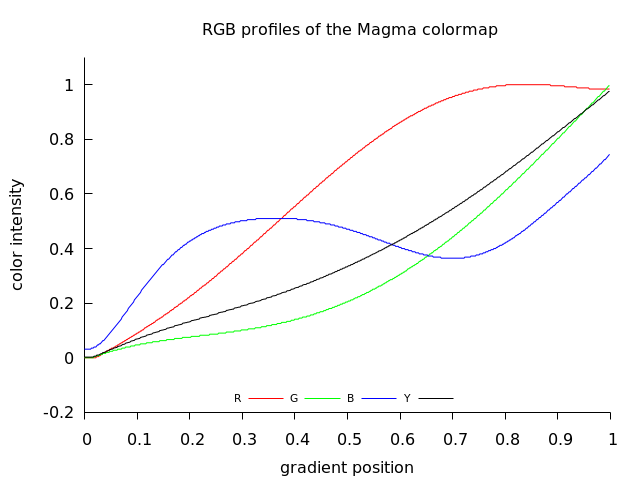
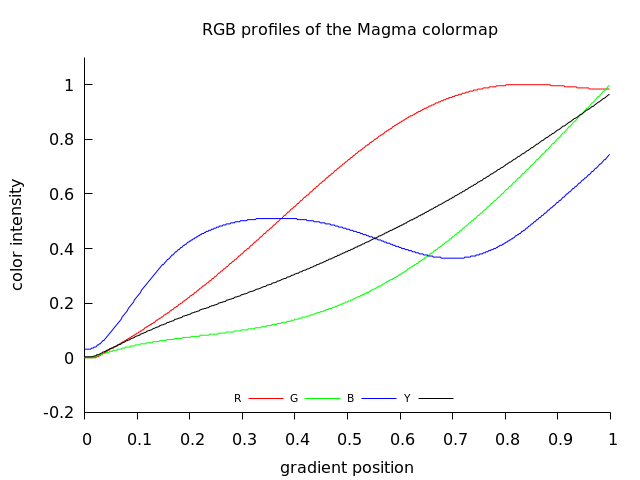
ntsc

diff --git a/p.c b/p.c
@@ -435,8 +435,11 @@ void PrintColor( FILE *fp, double position, unsigned char color[]){
 	double R = color[0]/255.0; 
 	double G = color[1]/255.0;
 	double B = color[2]/255.0;
-	// [Relative luminance is formed as a weighted sum of linear RGB components](https://en.wikipedia.org/wiki/Luma_(video)) Y = 0.2126 R + 0.7152 G + 0.0722 B
-	double Y = 0.2126*R + 0.7152*G + 0.0722*B;
+	// [Relative luminance is formed as a weighted sum of linear RGB components](https://en.wikipedia.org/wiki/Luma_(video)) 
+	// 
+	//from function test_palette_subcommand from file gnuplot/src/command.c test_palette_subcommand
+	//ntsc = 0.299 * rgb.r + 0.587 * rgb.g + 0.114 * rgb.b;
+	double Y = 0.299*R + 0.587*G + 0.114*B;
 	
 	fprintf(fp, "%f\t %f\t%f\t%f \t %f \n", position, R,G,B,Y);
 

diff --git a/README.md b/README.md
@@ -314,6 +314,8 @@ Tools:
 * [color gradient](https://imagemagick.org/script/gradient.php)
 
 ## python colormaps
+* [Palettable = Color palettes for Python by Matt Davis](https://jiffyclub.github.io/palettable/)
+* [A full implementation of Dave Green's "cubehelix" colormap for Python by James Davenport](https://github.com/jradavenport/cubehelix)
 * [python colormaps](http://www-personal.umich.edu/~mejn/computational-physics/colormaps.py)
 * [paraview](https://gitlab.kitware.com/paraview/paraview/blob/master/Wrapping%2FPython%2Fparaview%2F_colorMaps.py)
 * [Berkeley Institute for Data Science colormaps](https://github.com/BIDS/colormap/blob/master/colormaps.py)
